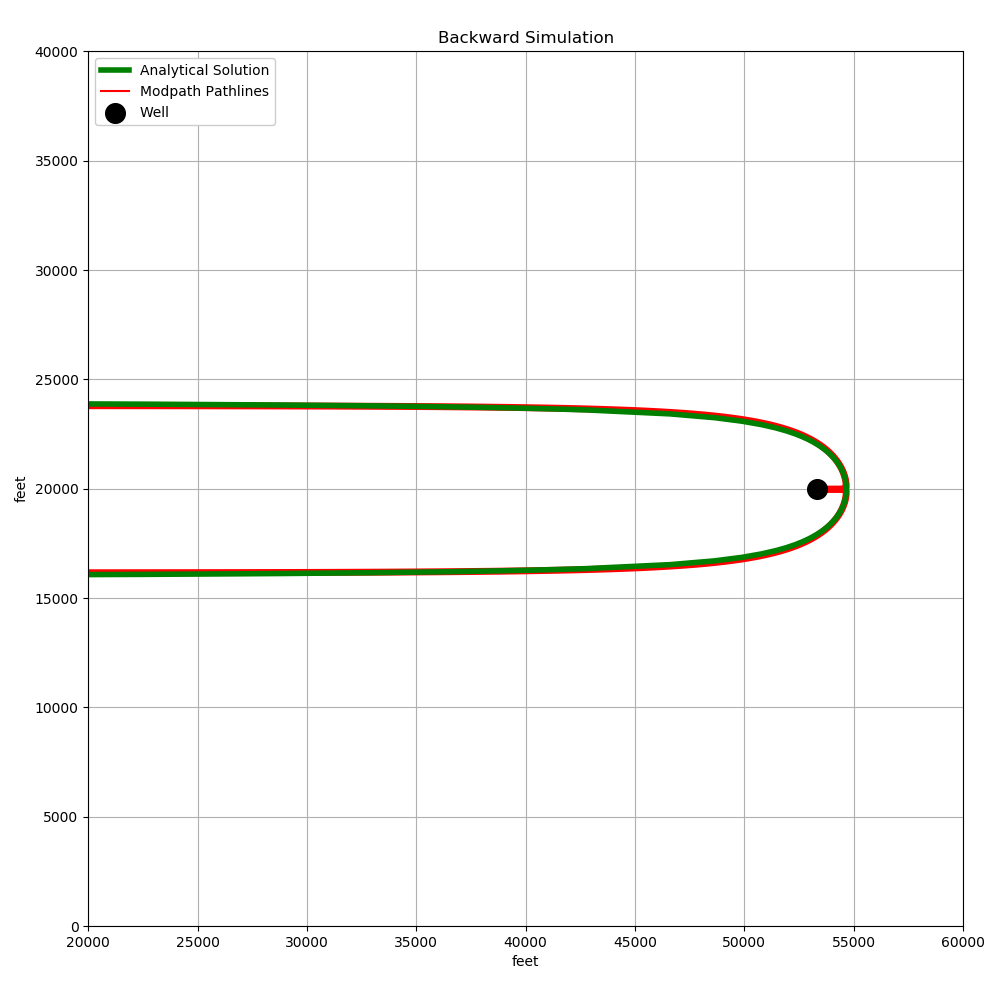
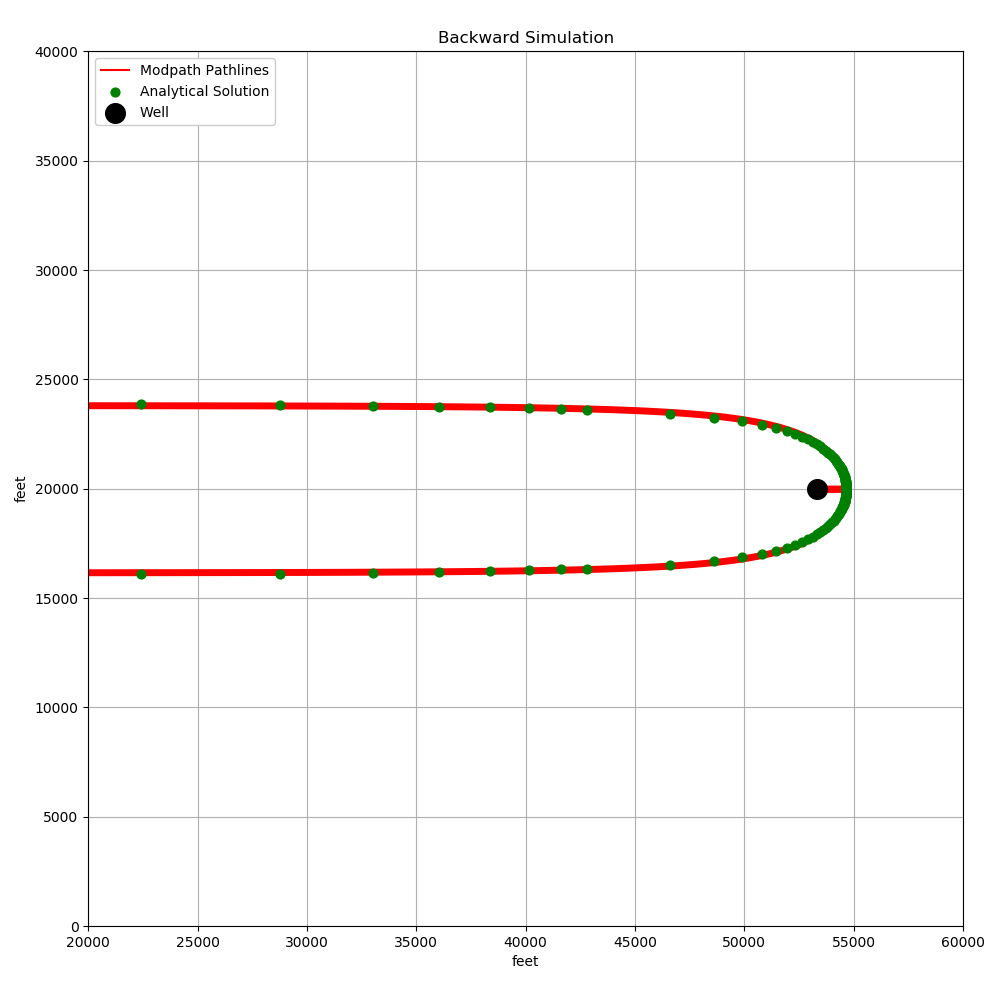
modified test case 3

diff --git a/Test_Case_3/S02_50_ft_mp.py b/Test_Case_3/S02_50_ft_mp.py
@@ -78,12 +78,9 @@ y = fetter.get_y_vals(ymax)
 y = np.array(y)
 yinv = np.array(y) * -1
 
-print(ymax,xstag)
-print(y)
 
 
 x = -fetter.make_shape_uc(y,Qcfd,hk,h1,h2,L)
-print(x)
 # exit()
 
 import flopy.utils.binaryfile as bf
@@ -92,7 +89,6 @@ cbb = bf.CellBudgetFile(os.path.join(model_ws,modelname+'.cbc'))
 times = cbb.get_times()
 
 frf = cbb.get_data(text='FLOW RIGHT FACE', totim=times[-1])[0]
-print(frf[0][19:22,1])
 
 
 
@@ -119,8 +115,12 @@ qm = modelmap.plot_ibound()
 
 well_epd = epdobj.get_alldata()
 well_pathlines = pthobj.get_alldata()
-ax.plot(x+53350+25,y+20000-25,lw=4,color='g')
-ax.plot(x+53350+25,yinv+20000-25,lw=4,color='g',label='Analytical Solution')
+# ax.plot(x+53350+25,y+20000-25,lw=4,color='g')
+# ax.plot(x+53350+25,yinv+20000-25,lw=4,color='g',label='Analytical Solution')
+
+ax.scatter(x+53350+25,y+20000-25,s=40,color='g',zorder=5)
+ax.scatter(x+53350+25,yinv+20000-25,s=40,color='g',label='Analytical Solution',zorder=4)
+
 modelmap.plot_pathline(well_pathlines, travel_time=None, layer='all', colors='red',zorder=2,lw=5) # plot pathline <= time
 modelmap.plot_endpoint(well_epd, direction='starting', colorbar=False) # can only plot starting of ending, not as dynamic as pathlines
 modelmap.plot_bc('wel',color='k')

diff --git a/Test_Case_3/S01_50_ft.py b/Test_Case_3/S01_50_ft.py
@@ -44,7 +44,7 @@ lpf = flopy.modflow.ModflowLpf(mf, hk=1000, vka=5000., ipakcb=53)
 #OC
 spd = {} # slight change to oc so we can save heads and budget for all stress periods
 for sp in range(nper):
-    spd[(sp, 0)] = ['print head', 'print budget', 'save head', 'save budget']
+    spd[(sp, 0)] = ['save head', 'save budget']
 oc = flopy.modflow.ModflowOc(mf, stress_period_data=spd, compact=True)
 #, extension=['oc', 'hds', 'ddn', 'cbb', 'ibo']
 
